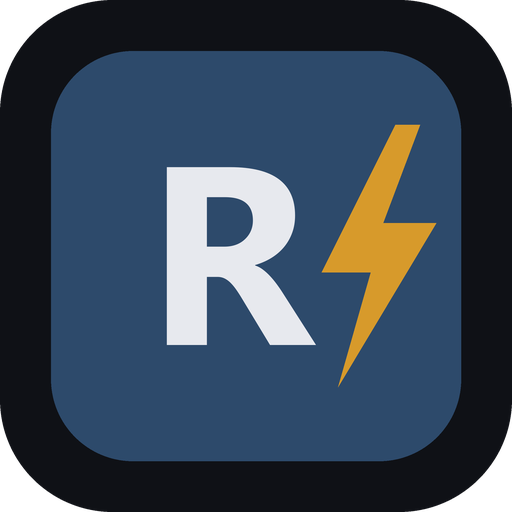
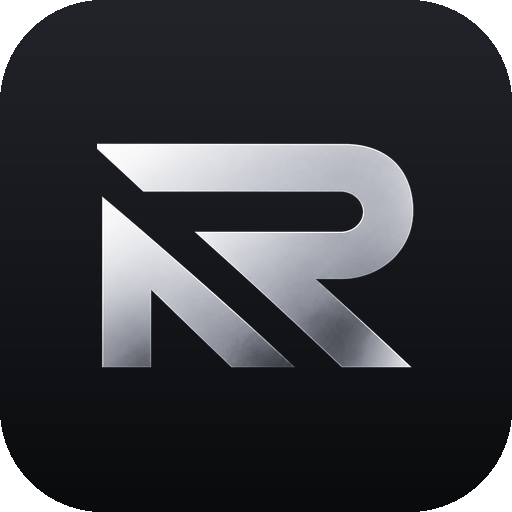
Add files via upload

diff --git a/ridemax.html b/ridemax.html
@@ -86,7 +86,7 @@ table.tbl,.stat .vl,.kv b,.dvv,.dtop .hh,.piedet,.piedet b,.mtag,.mrow2,.conf,.r
 .bar-bg{background:var(--border);border-radius:var(--r-sm);height:10px;flex-shrink:0;overflow:hidden;display:inline-block}
 .bar-fill{height:100%;border-radius:var(--r-sm);display:block}
 table.tbl{width:100%;border-collapse:collapse;font-size:var(--f-base)}
-table.tbl th{background:transparent;color:var(--muted);padding:var(--s2) var(--s2);text-align:right;font-size:var(--f-sm);font-weight:600;border-bottom:1px solid var(--border)}
+table.tbl th{background:var(--card);color:var(--muted);padding:var(--s2) var(--s2);text-align:right;font-size:var(--f-sm);font-weight:600;border-bottom:1px solid var(--border)}
 table.tbl th:first-child{text-align:left}
 table.tbl td{padding:var(--s2) var(--s2);border-bottom:1px solid var(--border);text-align:right}
 table.tbl td.l,table.tbl td:first-child,table.tbl th.l{text-align:left}
@@ -730,7 +730,7 @@ table.dtbl td.nn.warn{color:var(--yellow);font-weight:700}
   #viewCtn .fit-screen:has(.fit-top) .tblwrap,#viewCtn .fin-resumo .tblwrap,#viewCtn .fin-flx .tblwrap,#viewCtn .dash-screen .tblwrap .tblwrap,#viewCtn .relcat-screen .tblwrap{overflow:visible;max-height:none}
   #viewCtn:has(.fit-top,.fin-resumo,.fin-flx,.dash-screen,.relcat-screen) table.tbl{width:100%}
   #viewCtn:has(.fit-top,.fin-resumo,.fin-flx,.dash-screen,.relcat-screen) .tblwrap table{min-width:0}
-  #viewCtn:has(.fit-top,.fin-resumo,.fin-flx,.dash-screen,.relcat-screen) .tbl td,#viewCtn:has(.fit-top,.fin-resumo,.fin-flx,.dash-screen,.relcat-screen) .tbl th{white-space:normal;overflow-wrap:anywhere}
+  #viewCtn:has(.fit-top,.fin-resumo,.fin-flx,.dash-screen,.relcat-screen) .tbl td,#viewCtn:has(.fit-top,.fin-resumo,.fin-flx,.dash-screen,.relcat-screen) .tbl th{white-space:normal;overflow-wrap:break-word}
   #viewCtn .relcat-det-extra{max-height:none;overflow:visible}
    table.tbl td, table.tbl th{white-space:normal!important}
   #viewCtn .fit-screen:has(.fit-top) .fit-bottom{grid-template-columns:1fr}
@@ -738,7 +738,7 @@ table.dtbl td.nn.warn{color:var(--yellow);font-weight:700}
 /* FASE ALTURA BLOCOS (vale p/ todas as larguras): tabela nunca rola na horizontal */
 #viewCtn:has(.fit-top,.fin-resumo,.fin-flx,.dash-screen,.relcat-screen) table.tbl{width:100%}
 #viewCtn:has(.fit-top,.fin-resumo,.fin-flx,.dash-screen,.relcat-screen) .tblwrap table{min-width:0}
-#viewCtn:has(.fit-top,.fin-resumo,.fin-flx,.dash-screen,.relcat-screen) .tbl td,#viewCtn:has(.fit-top,.fin-resumo,.fin-flx,.dash-screen,.relcat-screen) .tbl th{white-space:normal;overflow-wrap:anywhere}
+#viewCtn:has(.fit-top,.fin-resumo,.fin-flx,.dash-screen,.relcat-screen) .tbl td,#viewCtn:has(.fit-top,.fin-resumo,.fin-flx,.dash-screen,.relcat-screen) .tbl th{white-space:normal;overflow-wrap:break-word}
  table.tbl td, table.tbl th{white-space:normal!important}
 .mrow2{display:flex;justify-content:space-between;align-items:center;gap:var(--s2);padding:var(--s2) 0;border-bottom:1px solid var(--border);font-size:var(--f-sm)}
 .mtag{display:inline-block;font-size:var(--f-sm);background:var(--input);border:1px solid var(--border);border-radius:var(--r-sm);padding:var(--s1) var(--s2);color:var(--muted);margin-top:var(--s1)}
@@ -6576,7 +6576,7 @@ function compCardHTML(){
     else if(a!==0){ cls="#d79a2b"; d="novo"; }
     return '<tr><td class="l">'+lbl+'</td><td>'+BRL(b)+'</td><td>'+BRL(a)+'</td><td style="color:'+cls+'"><b>'+d+'</b></td></tr>';
   };
-  return '<div class="card"><h3>Este mês × mês passado (até o mesmo dia)<button type="button" class="infoBtn" data-tip="Comparando dia 1 até '+cut+' deste mês com dia 1 até '+pastCut+' do mês passado. Verde significa melhorou: receita subiu ou custo caiu." aria-label="Sobre este bloco">i</button></h3><div class="tblwrap"><table class="tbl"><tr><th style="text-align:left">Indicador</th><th style="text-align:right">Mês passado (1–'+pastCut+')</th><th style="text-align:right">Este mês (1–'+cut+')</th><th style="text-align:right">Variação</th></tr><tbody>'
+  return '<div class="card"><h3>Este mês × mês passado (até o mesmo dia)<button type="button" class="infoBtn" data-tip="Comparando dia 1 até '+cut+' deste mês com dia 1 até '+pastCut+' do mês passado. Verde significa melhorou: receita subiu ou custo caiu." aria-label="Sobre este bloco">i</button></h3><div class="tblwrap"><table class="tbl"><tr><th style="text-align:left">Indicador</th><th style="text-align:right">Mês passado <span style="white-space:nowrap">(1–'+pastCut+')</span></th><th style="text-align:right">Este mês <span style="white-space:nowrap">(1–'+cut+')</span></th><th style="text-align:right">Variação</th></tr><tbody>'
    +row("Receita bruta",A.brutaT,B.brutaT,false)
    +row("Receita líquida",A.liquida,B.liquida,false)
    +row("Custos variáveis",A.varT,B.varT,true)
@@ -9186,11 +9186,9 @@ function rSaldos(){
   try{ document.body.classList.add("fit-lock"); }catch(e){rmLogErr(e)}
   var list=(DB.contas||[]).slice().sort(finSortNome);
   var tot=totalGeralContas();
-  var html='<div class="fit-screen sld-screen"><div class="sld-top"><div class="cards c4">'+statCard("💰",BRL(tot),"Total geral",tot<0?"#e0695c":"",list.length+" conta(s)");
-  list.forEach(function(c){
-    var s=saldoConta(c);
-    html+=statCard(c.protegida?"🔒":(c.tipo==="investimento"?"📈":(c.tipo==="banco"?"🏦":"👛")),BRL(s),c.nome+(c.ativa?"":" (inativa)"),s<0?"#e0695c":"","desde "+isoToBR(c.dataSaldoInicial)+(s<0?'<br><span style="color:#e0695c">saldo negativo — normalmente significa lançamento faltando</span>':""));
-  });
+  /* cada conta já aparece em "Saldos por conta" logo abaixo: em cima fica só o total (nada repetido) */
+  var _neg=list.filter(function(c){ return saldoConta(c)<0; }).map(function(c){ return esc(c.nome); });
+  var html='<div class="fit-screen sld-screen"><div class="sld-top"><div class="cards c4">'+statCard("💰",BRL(tot),"Total geral",tot<0?"#e0695c":"",list.length+" conta(s)"+(_neg.length?'<br><span style="color:var(--red)">saldo negativo em '+_neg.join(", ")+' — normalmente significa lançamento faltando</span>':""));
   html+='</div></div>';
   html+='<div class="card sld-list-card"><h3>Saldos por conta</h3><div class="tblwrap sld-list"><table class="tbl"><thead><tr><th>Conta</th><th class="mhide">Tipo</th><th>Desde</th><th>Inicial</th><th>Entradas</th><th>Saídas</th><th>Saldo</th></tr></thead><tbody>';
   if(!list.length) html+='<tr><td colspan="7" style="color:var(--muted)">Nenhuma conta. Crie em Contas.</td></tr>';

diff --git a/sw.js b/sw.js
@@ -3,7 +3,7 @@
    Ícones/manifesto: cópia guardada primeiro.
    Nada de outros sites (ex.: clima) passa por aqui, e os DADOS não ficam neste cache
    (eles ficam no IndexedDB do app). Ao publicar uma versão nova, aumente VERSAO. */
-var VERSAO = "ridemax-v5";
+var VERSAO = "ridemax-v6"; // v6: ícones novos (R prata e atalhos) — 25/11/2026
 var ARQUIVOS = ["./ridemax.html", "./manifest.webmanifest", "./icon-192.png", "./icon-512.png", "./icon-maskable-512.png", "./apple-touch-icon.png", "./atalho-corrida.png", "./atalho-turno.png", "./atalho-rapida.png", "./atalho-despesa.png"];
 
 self.addEventListener("install", function (ev) {
